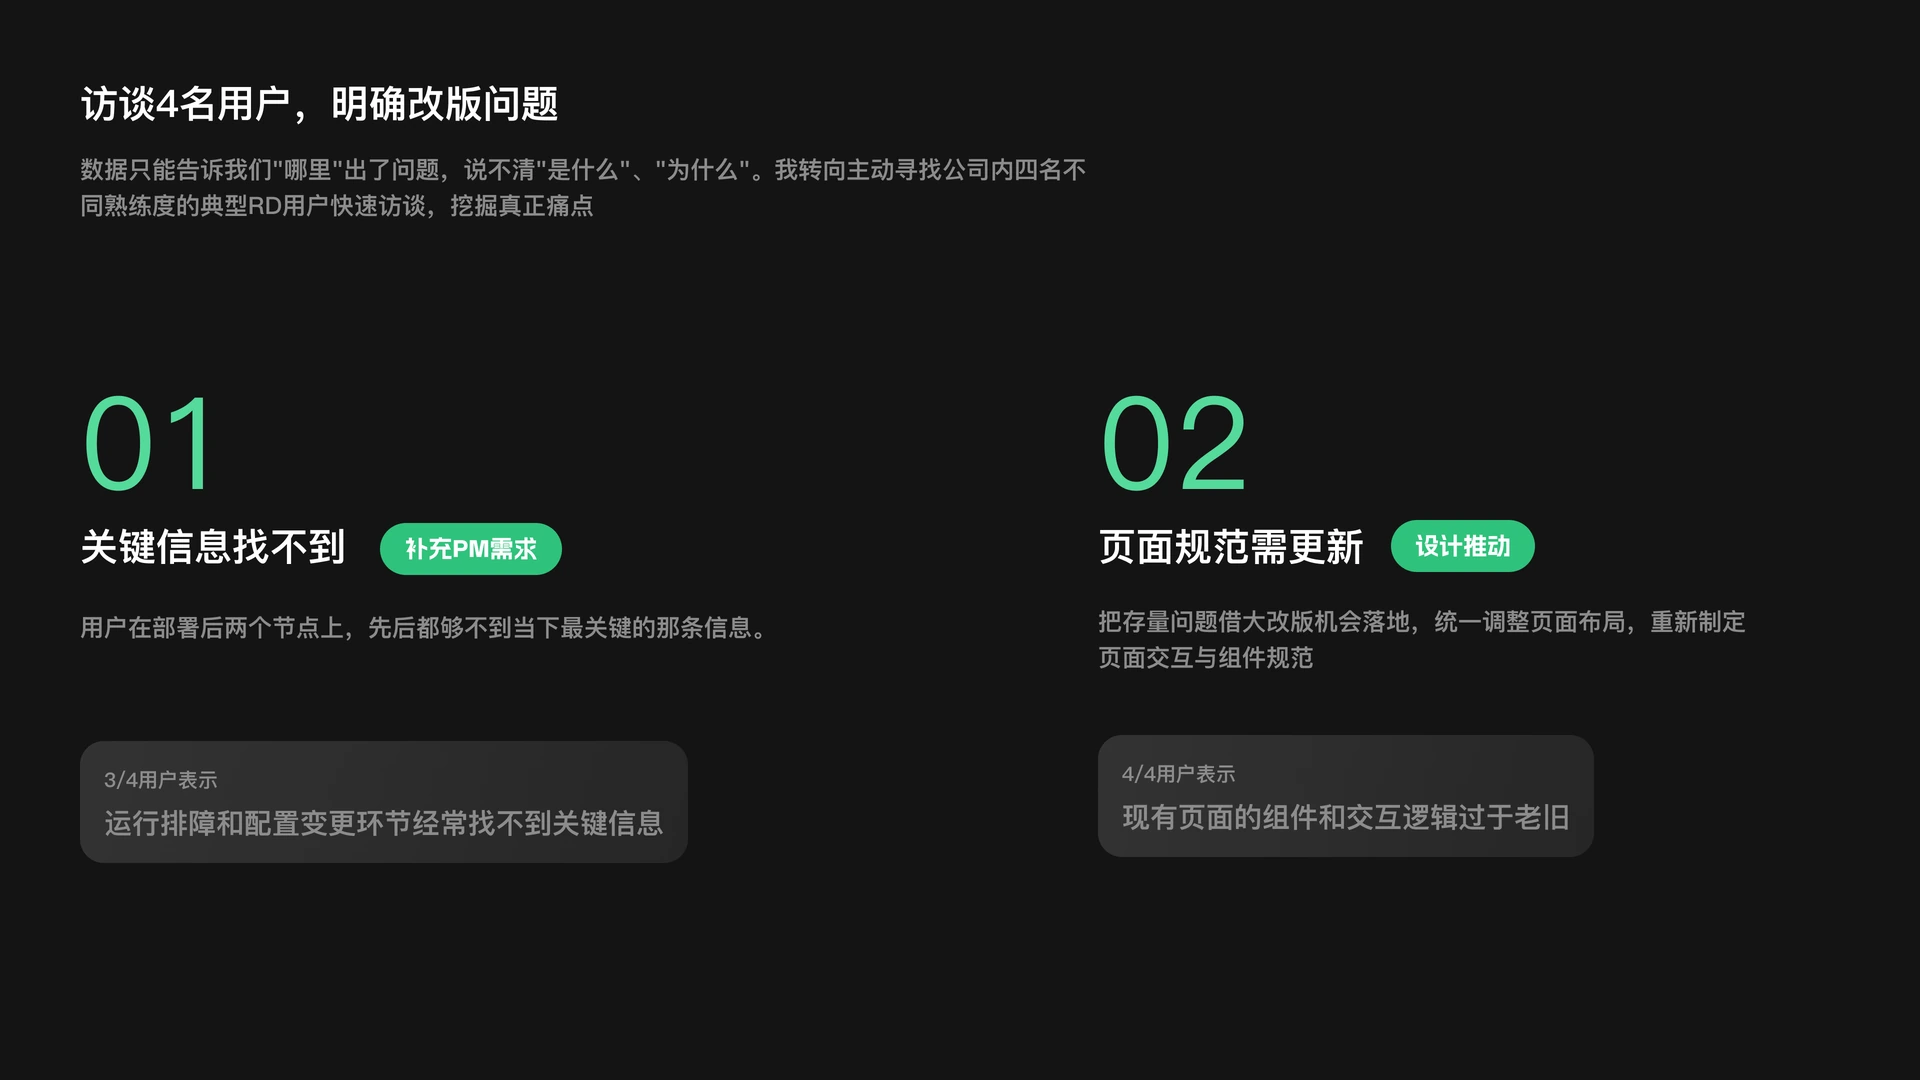
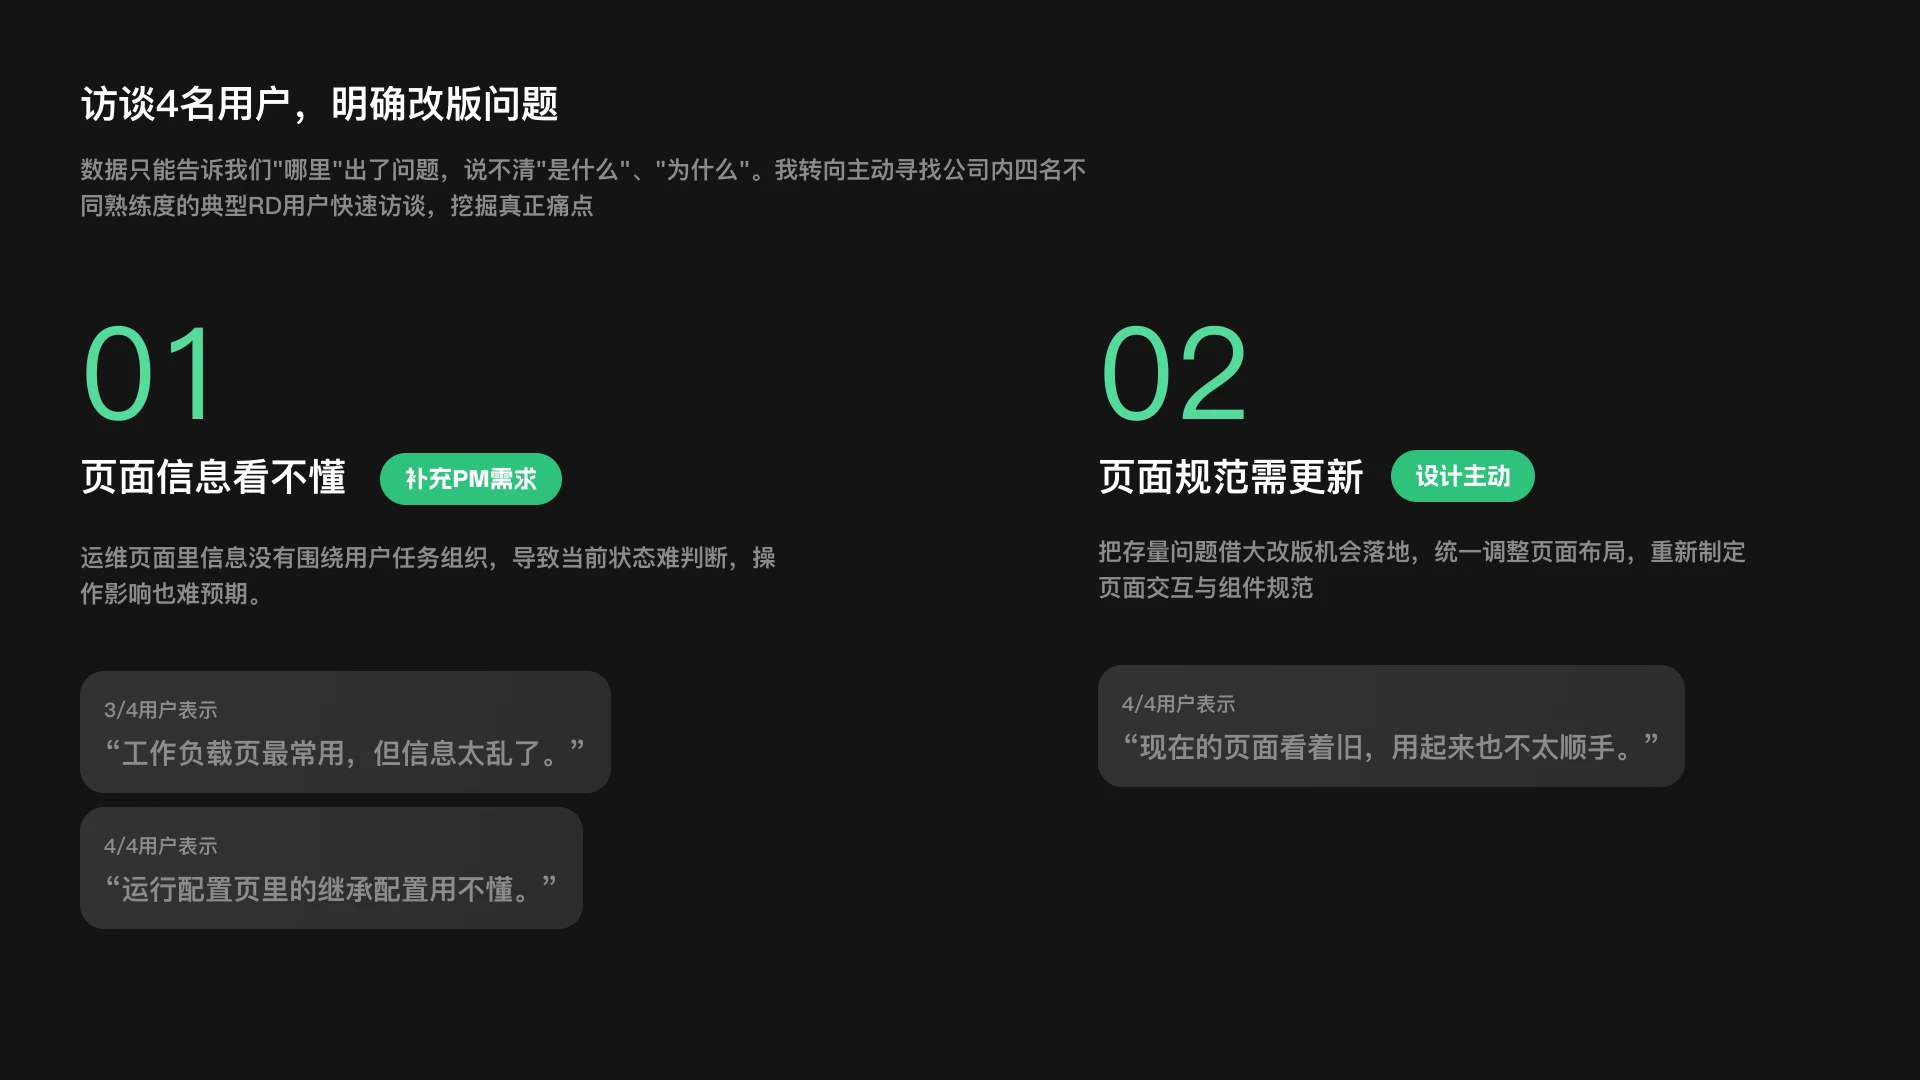
更新 CNAP 案例页内容

Changed region(s): [[0.0312, 0.3056, 0.4062, 0.8861], [0.5625, 0.3056, 0.9062, 0.7944]]

diff --git a/pages/cnap-case.html b/pages/cnap-case.html
@@ -22,9 +22,9 @@
     <main id="top">
       <section class="slides" aria-label="CNAP 云原生工作负载管理项目案例">
         <img src="../assets/cnap-case/page-01-update.webp?v=20260917-1" alt="CNAP 云原生工作负载管理项目概览" data-section-kicker="项目开篇" data-section-title="复杂 B 端系统体验重构" width="1920" height="1080" fetchpriority="high" decoding="async" />
-        <img data-src="../assets/cnap-case/page-02-update.webp?v=20260917-1" alt="CNAP 信息架构与核心任务流程" data-section-kicker="项目背景" data-section-title="系统复杂化带来的核心痛点" width="1920" height="1080" loading="lazy" decoding="async" />
+        <img data-src="../assets/cnap-case/page-02-update.webp?v=20260922-1" alt="CNAP 产品从发布上线到稳定运行的完整流程" data-section-kicker="产品是什么" data-section-title="让后台应用从发布上线，到稳定运行" width="1920" height="1080" loading="lazy" decoding="async" />
         <img data-src="../assets/cnap-case/page-03-update.webp?v=20260918-2" alt="CNAP 初期困难与体验短板：看懂产品，却看不懂用户" data-section-kicker="初期困难" data-section-title="看懂产品，却看不懂用户" width="1920" height="1080" loading="lazy" decoding="async" />
-        <img data-src="../assets/cnap-case/page-04-update.webp?v=20260917-2" alt="CNAP 设计重构目标与策略" data-section-kicker="设计策略" data-section-title="先解决高频任务，再沉淀页面规则" width="1920" height="1080" loading="lazy" decoding="async" />
+        <img data-src="../assets/cnap-case/page-04-update.webp?v=20260922-1" alt="CNAP 用户访谈：明确改版问题" data-section-kicker="用户访谈" data-section-title="访谈4名用户，明确改版问题" width="1920" height="1080" loading="lazy" decoding="async" />
         <img data-src="../assets/cnap-case/page-05-update.webp?v=20260917-1" alt="CNAP 设计成果：信息各归其位，任务一眼可见" data-section-kicker="设计成果一" data-section-title="信息各归其位，任务一眼可见" width="1920" height="1080" loading="lazy" decoding="async" />
         <img data-src="../assets/cnap-case/page-06.webp?v=20260915-2" alt="CNAP 核心流程与信息架构优化" data-section-kicker="信息架构" data-section-title="重组部署与排障路径" width="1920" height="1080" loading="lazy" decoding="async" />
         <img data-src="../assets/cnap-case/page-07.webp?v=20260920-1" alt="CNAP 设计点一：状态难查与配置难改" data-section-kicker="设计点一" data-section-title="状态难查，配置难改" width="1920" height="1080" loading="lazy" decoding="async" />
